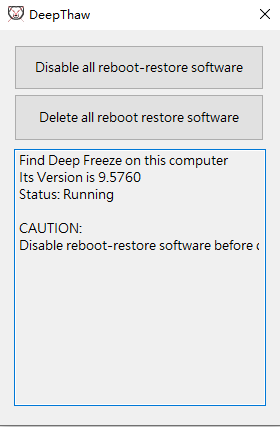
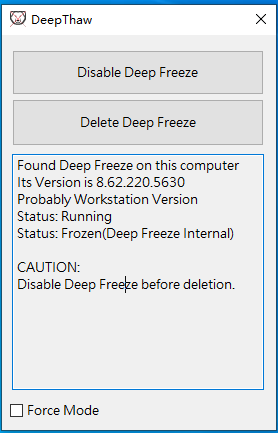
v1.6 1.Fixed an issue where the frozen status detection for the Workstation version displayed incorrectly. 2.In Normal Mode, version detection has been further refined (more granular). 3.Fixed a potential misdetection between the Workstation and Standard versions. 4.Updated inappropriate labels/prom

Changed region(s): [[0.0, 0.0, 1.0, 1.0]]

diff --git a/DeepThaw/DeepThaw.cpp b/DeepThaw/DeepThaw.cpp
@@ -37,12 +37,20 @@ BOOL CDeepThawApp::InitInstance()
 	CMFCVisualManager::SetDefaultManager(RUNTIME_CLASS(CMFCVisualManagerWindows));
 
 	//操作系统版本排除
+#ifdef FOR_WIN10_OrGreater
 	if (!IsWindows10OrGreater())
 	{
 		AfxMessageBox(L"Please use Windows 10 or a later version of the operating system to run this tool.\n", MB_OK | MB_ICONERROR);
 		return FALSE;
 	}
+#else 
+	if (IsWindows10OrGreater())
+	{
+		AfxMessageBox(L"Please use Windows 7 or Windows 8.x to run this tool.\n", MB_OK | MB_ICONERROR);
+		return FALSE;
+	}
 
+#endif
 	//加载驱动
 	LoadDriver();
 

diff --git a/README.md b/README.md
@@ -3,7 +3,7 @@
 ## Introduction
 This is a small utility that can disable system reboot‑restore software (such as Deep Freeze, Reboot Restore, etc.) even when they are enabled and password‑protected.
   
-Currently it only supports Deep Freeze (all versions) and Windows 10/11 64‑bit operating systems.
+Currently it only supports Deep Freeze (all versions) and Windows 7/8.x/10/11 64‑bit operating systems.
   
 It uses a kernel‑mode driver to counter them, allowing it to bypass the reboot‑restore software regardless of its version.  
   
@@ -18,7 +18,7 @@ Visual Studio 2026 + Windows 11 SDK 10.0.28000.2114 + WDK 28000.1761
 
 ## TO-DO list （No idea when I'll get these TODOs done – I'm pretty lazy, to be honest :）
 1. Improve support for Windows 10 32‑bit.
-2. Add support for Windows 7 (and even Windows XP).
+2. ~Add support for Windows 7 (and even Windows XP).~
 3. Support Reboot Restore RX.
 4. Support Shadow Defender.  
 5. Thoroughly harden 'Force Mode' using EFI.
